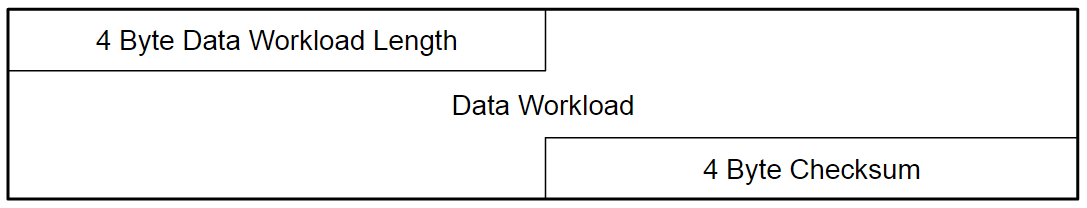
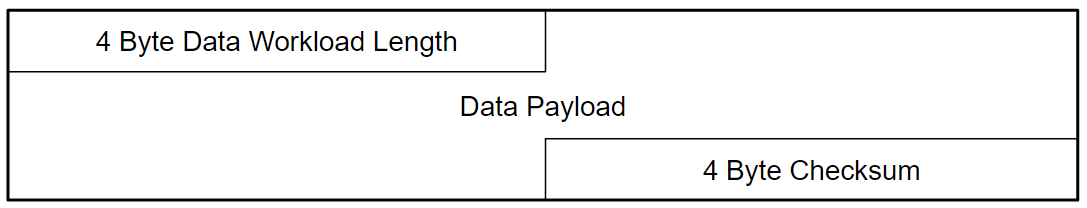
more changes

diff --git a/paper/paper.tex b/paper/paper.tex
@@ -140,44 +140,44 @@ It relies on interaction with the end-user as he needs to check if blinking on t
 
 There are also some proposals for key predistribution using an alternative channel, i.e. light:
 
-\cite{saxena2009blink} proposes to generate public keys on the mote(s) and transfer them to a \textit{sink} via standard radio channels.
+\cite{saxena2009blink} proposed to generate public keys on the mote(s) and transfer them to a \textit{sink} via standard radio channels.
 They are verified afterwards using the unidirectional light channel from the motes to the sink.
 However, they still rely on energy consuming asymmetric encryption.
 
 \textit{Light Communication for Deploying Secure Wireless Sensor Networks (LiDSN)} is an approach to assign a node id and a secret key to a mote, \cite{doan2012lidsn}.
 Therefore, a temporal key for radio communication is transmitted to a specialized \textit{connector} via light.
-The communication via light can be either way: if the connector receives light from the motes LED, it reads it. If the mote has no LED, a light sensor is assumed and the connector emits light with an own LED.
-It is shown, that key provisioning is both faster and easier for end users.
+The communication via light can be either way: if the connector receives light from a mote's LED, it reads it. 
+If the mote has no LED, a light sensor is assumed and the connector emits light with an own LED.
+They showed, that key provisioning is both faster and easier for end users.
 
 \cite{electricimp} sells proprietary BlinkUp~\texttrademark  technology.
 Instead of specialized hardware which end users might not want to buy, they provide a smartphone application which provisions a mote.
 Assuming most users who install IoT setups already own a smartphone, this seems to be a cost-effective alternative.
 
-However, we could not find that this approach is examined scientifically.
-Thus, we propose a protocol for secure and wireless key predistribution using a smartphone as a light emitter and motes with a light sensor as receivers.
+However, we could not find that this approach was examined scientifically.
+We address this and propose a protocol for secure and wireless key provisioning using a smartphone as a light emitter and motes with light sensors as receivers.
 
 \section{Communication Protocol}
 \label{sec:communication_protocol}
 
-In the following section, we describe the phases of the protocol.
-Each phase contains the necessary steps for the Android device and the mote.
+In the following, we describe the phases of the protocol.
+Each phase contains the necessary steps for the smartphone and the mote.
 Insights into the concrete implementation will be given in Section~\ref{sec:implementation}.
 
 \subsection{Calibration}
 \label{sub:calibration}
 
 The goal of the calibration phase is to establish light values for \textit{bright} and \textit{dark} on the mote.
-By doing this in the beginning of the protocol, we can adapt to different lighting situations in the room and different brightness levels of the phone.
+By doing this at the beginning of the protocol, we can adapt to different lighting situations in the room and different brightness levels of the smartphone.
 
-The task of the phone in this protocol stage is simple.
-It periodically sends \textit{bright} and \textit{dark} values, each with a certain period length $T$.
-Simply said, it is blinking.
+The task of the smartphone in this protocol stage is to periodically send \textit{bright} and \textit{dark} values, each with a certain period length $T$.
+Simply said, it is blinking by flashing of the display or the flash light.
 
 The mote on the other side measures $n$ light values using its light sensor.
 The time between two measurements will probably not be equal to $T$, because the period length is unknown to the mote at this point.
 As long as \textit{bright} and \textit{dark} values are part of the $n$ measurements, the concrete time does not matter.
 After reading $n$ values, the mote calculates reasonable numeric values for \textit{bright} and \textit{dark}.
-For instance, this can be achieved by applying a \mbox{\textit{2-means}} algorithm, see Section~\ref{ssub:contiki_process}.
+This is achieved by applying the \mbox{\textit{2-means}} algorithm.
 After that, the mote is able to classify new light values and thus can read bits.
 
 \subsection{Synchronization}
@@ -216,7 +216,7 @@ This can either be done by using a fixed time (e.g. the application stays in cal
 
 When the phone reaches the initialization phase as a result of one of those methods, it sends a predefined initialization pattern.
 The pattern must be different from $0101...$ and needs to have a length of one binary encoded character, e.g. 8~bit for ASCII encoding.
-It sends the pattern exactly once, then it proceeds to the next phase.
+It sends the pattern exactly once, then it proceeds with the next phase.
 
 After successful synchronization, the mote waits for the initialization pattern.
 It does that by reading single bits and comparing the last 8~bits (for ASCII encoding) to the predefined pattern.
@@ -226,16 +226,18 @@ Once the initialization pattern has been detected, the mote immediately switches
 \label{sub:data_sending}
 
 In the data sending phase, we can finally transmit the data packet.
-As we can see in Figure~\ref{fig:data_packet}, the packet contains the data length, the actual data and a checksum used for validation of the received data in the validation phase~\ref{sub:validation}.
+As we can see in Figure~\ref{fig:data_packet}, the packet contains the data length, the actual data and a checksum used for validation of the received data in the validation phase (Section~\ref{sub:validation}).
 
-The Android application encodes the data string (e.g. ASCII encoding), measures its binary length and calculates the checksum using a predefined checksum algorithm.
-It is obvious, that those calculations can be done beforehand.
-The concatenated bit string then is sent using flashing of the display or the flash light.
+The smartphone encodes the data string (e.g. ASCII encoding), measures its binary length and calculates the checksum.
+All data that is being sent is encoded with a \textit{Hamming(8,4)-code} so that two-bit errors can be detected and one-bit errors can be corrected.
+\textit{CRC32} is chosen as the checksum algorithm to avoid saving erroneous key material.
+This could be caused by 3-or-more-bit errors that the Hamming code failed to detect.
+The concatenated bit string is then sent using flashing of the display or the flash light.
 
 The mote, after having recognized the initialization pattern, reads blocks of bits.
 The first 4 byte are interpreted as the length of the actual data.
-Afterwards, it reads the appropriate number of blocks to receive the data workload.
-Once the whole data workload is read, it interprets the last 4 byte as the checksum.
+Afterwards, it reads the appropriate number of blocks to receive the data payload.
+Once the whole data payload is read, it interprets the last 4 byte as the checksum.
 
 \begin{figure}
 	\centering
@@ -249,75 +251,69 @@ Once the whole data workload is read, it interprets the last 4 byte as the check
 
 In this last phase, the mote checks whether the transmission was successful.
 The phone does nothing in this phase, it has successfully run the protocol.
-The mote uses the received data workload and calculates the checksum by itself.
+The mote uses the received data payload and calculates the checksum by itself.
 If it is equal to the received one, the data packet is considered to be transmitted correctly.
 If both checksums differ, something must have gone wrong.
-It is not clear, whether the data workload was transmitted correctly and therefore the mote goes into an error state.
+It is not clear, whether the data payload was transmitted correctly and therefore the mote goes into an error state.
 
 \section{Implementation}
 \label{sec:implementation}
 
-The implementation consists of an Android application\footnote{https://github.com/0x203/Flickerer/} that creates and sends the keying material and a Contiki process\footnote{https://github.com/Lixissimus/Security4Things} that runs on the TelosB sky mote and receives and validates it, \cite{dunkels04contiki}, \cite{telosb}.
+Our implementation consists of an Android application\footnote{https://github.com/0x203/Flickerer/} that creates and sends the keying material and a Contiki process\footnote{https://github.com/Lixissimus/Security4Things} that runs on a TelosB sky mote and receives and validates it, \cite{dunkels04contiki}, \cite{telosb}.
 Both follow the aforementioned communication protocol very closely, but increase reliability and fail-safeness through the following design decisions.
 
-All data that is being sent is encoded with a \textit{Hamming(8,4)-code} so that two-bit errors can be detected and one-bit errors can be corrected.
-
-The \textit{CRC32} is chosen as the checksum algorithm for the validation phase to avoid saving erroneous key material.
-This could be caused by 3-or-more-bit errors that the Hamming code failed to detect.
-
-As the Android timer that triggers the bit emission cannot be too early but in fact tends to be a little late\cite{mongia2010reliable}, the time at which the mote reads a bit is not in the middle of a period as suggested by Figure~\ref{fig:read_a_bit}.
-It is at the very end of a period to maximize error avoidance due to timer delays\footnote{The Contiki timer that triggers the reading of the bit is a real-time timer.}.
 
 In the following sections, both the implementation of the Android application and the Contiki process are described in more detail.
 
 \subsection{Android app}
 \label{sub:android_app}
 
-We have developed two different versions of the Android application for users to enter keys and transmit them.
-
+We have developed two different versions of the Android application, which enable users to enter keys and transmit them.
 The first version is written using web technologies (i.e. HTML, CSS, and JavaScript) and deployed to the smartphone using Apache~Cordova\footnote{https://cordova.apache.org/}.
 Because of this, the application can also run in most desktop browsers and can easily be ported to work with other smartphone operating systems, too, e.g. iOS or Windows Phone.
 There are two disadvantages of this implementation, which motivated us to build a second edition:
 The flash light cannot be controlled reliably using the mentioned web technologies.
 This forced us to use the screen for light emission, which resulted in far smaller brightness margins to be read by the mote.
-Furthermore the timing accuracy was considerably limited by the overhead caused by the Cordova runtime and the JavaScript interpreter which resulted in transmission errors.
+Furthermore the timing accuracy was considerably limited due to the overhead caused by the Cordova runtime and the JavaScript interpreter which resulted in transmission errors.
 
 \begin{figure}
 	\centering
 	\includegraphics[scale=.15]{images/screen_native.png}
-	\caption{Screenshot of the native Android application used to encode the key and emit it as light flickering. With a toggle switch the user can choose if the flashlight or the screen should flicker. The length of one bit can be adjusted using a slider. Any text entered in the text field can be transmitted by tapping on ``Start''. While transmitting, the user gets feedback about the current phase right above the buttons.}
+	\caption{Screenshot of the native Android application used to encode the key and emit it as light flickering. With a toggle switch the user can choose if the flashlight or the screen should flicker. The length of one bit can be adjusted using a slider. For demonstration purposes, any text entered in the text field can be transmitted by tapping on ``Start''. While transmitting, the user gets feedback about the current phase right above the buttons.}
 	\label{fig:screenshot}
 \end{figure}
 
-To improve transmission reliability we therefore built a native Android application written in Java.
-Still on Android, it is impossible to guarantee real-time behavior, but we may get smaller delays without JavaScript involved.
+To improve transmission reliability, we therefore built a native Android application written in Java.
+Still, on Android, it is impossible to guarantee real-time behavior, but we get smaller delays without JavaScript involved.
 As to bee seen in Fig.~\ref{fig:screenshot}, any entered text will be ASCII-encoded and transmitted.
 This is just a prove of concept, a real key should be a random 128~bit string which needs to be generated and saved for later usage, which is out of scope of this paper.
 This Java implementation benefits from the ability of the native Java timer to re-adjust itself, which means that timing inaccuracies do not add up.
-In that way, the phone and the mote do not get out of sync, no matter how long the transmission takes.
+In effect, the smartphone and the mote do not get out of sync, no matter how long the transmission takes.
 Another advantage of this version is the flash light.
 Depending on the smartphone model, the flash light is as fast as screen flickering even for small bit lengths, while being much brighter.
 Especially when attempting to program multiple motes at once this comes in very handy.
 
 
-\subsection{Mote}
+\subsection{Integration into Contiki}
 \label{sub:mote}
 
 The implementation on the mote is divided into two parts.
-The communication protocol and key storage is implemented in a Contiki process.
-For the mote to securely communicate, the link layer needs to be initialized using the transmitted key, which is accomplished by a link layer driver wrapper.
+First, the communication protocol and key storage is implemented in a Contiki process.
+Second, for the mote to securely communicate, the implementation of link layer security needs to be initialized using the transmitted key.
+This is accomplished by a link layer driver wrapper around link layer security.
 
 \subsubsection{Contiki process}
 \label{ssub:contiki_process}
 
 The \textit{light process} implements the receiving side of the communication protocol.
 A real-time timer called \textit{rtimer}, which is offered by the Contiki operating system, eliminates timer inaccuracies on the mote side.
+As the Android timer that triggers the bit emission is never too early but in fact tends to be a little late\cite{mongia2010reliable}, the time at which the mote reads a bit is not in the middle of a period as suggested by Figure~\ref{fig:read_a_bit}.
+It is at the very end of a period to maximize error avoidance due to timer delays.
 The mote uses its light sensor to sense the current brightness.
-Once the process is started, an LED-countdown (red $\rightarrow$ blue $\rightarrow$ green) indicates the start of the key initialization procedure.
-A \mbox{\textit{2-means}} algorithm is used to create two clusters of \textit{bright} and \textit{dark} values and to compute their mean values~(see \ref{sub:calibration}).
-Subsequently a new value is classified as \textit{0} or \textit{1} depending on which mean value is closer to it.
+
+Once the light process is started, an LED-countdown (red $\rightarrow$ blue $\rightarrow$ green) indicates the start of the key initialization procedure.
 After the successful calibration, synchronization and initialization a blue LED indicates that the mote is receiving data.
-If an error is detected by the Hamming-code or if the computed checksum does not match the transmitted one, a red LED indidcates the failure and the process should be restarted.
+If an error is detected by the Hamming-code or if the computed checksum does not match the transmitted one, a red LED indidcates the error and the process should be restarted.
 A green LED shows that the key material has been received successfully and was saved to the permanent flash memory of the mote.
 
 \subsubsection{Contiki driver wrapper}
